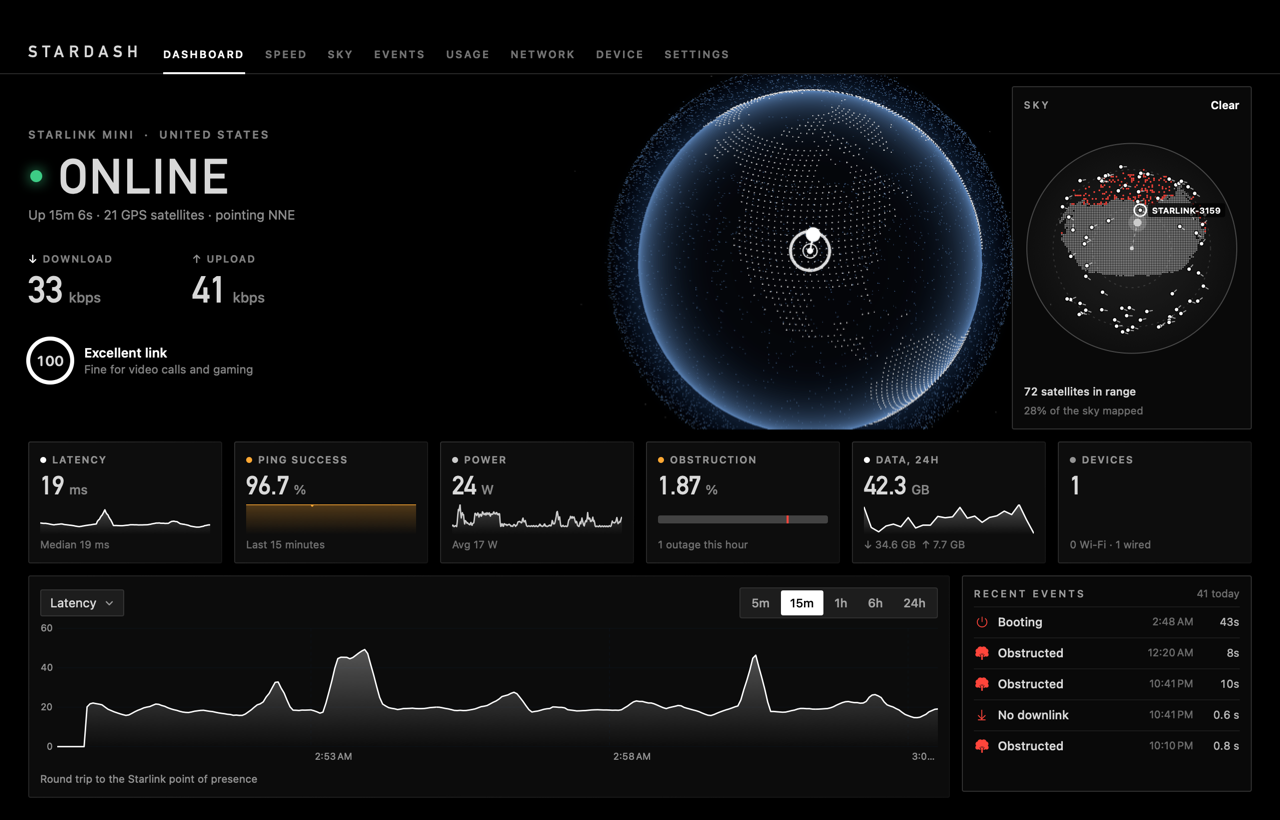
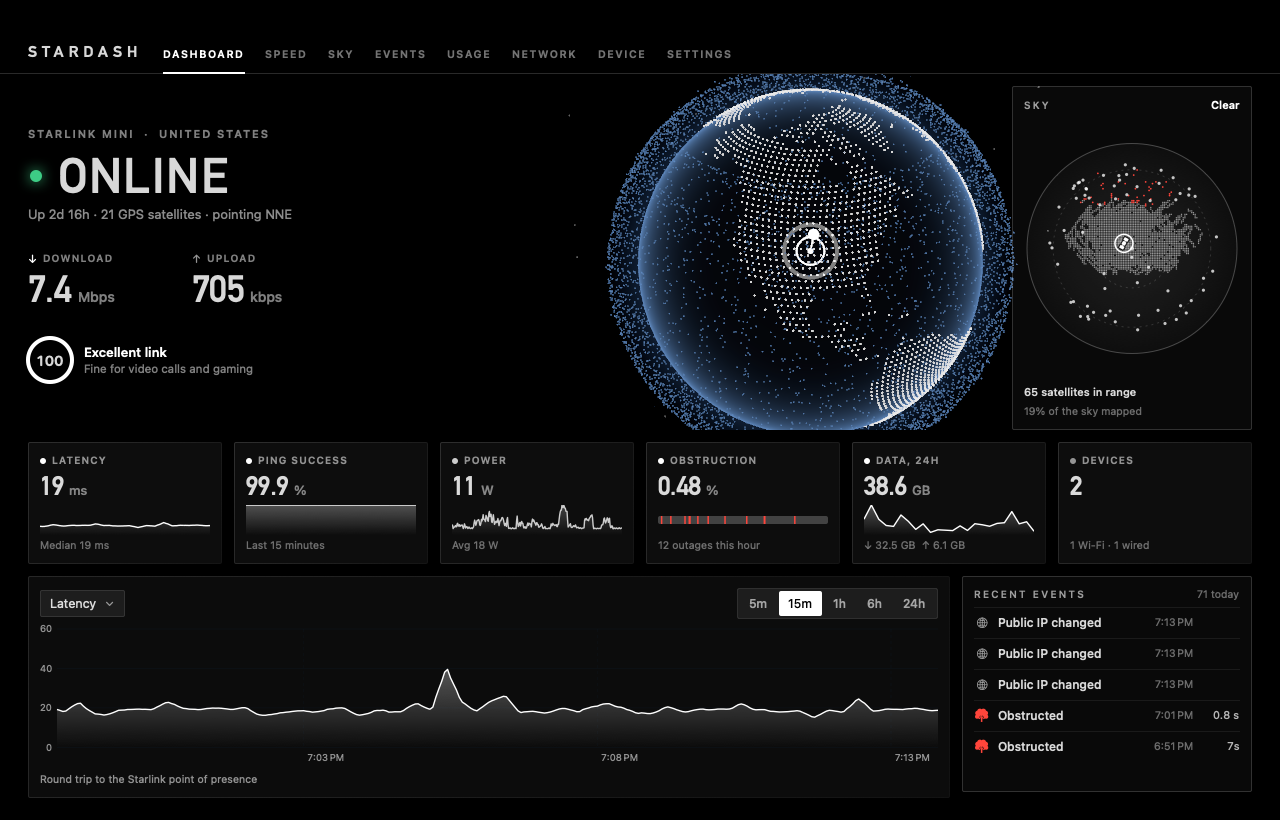
Lead the landing page with the dashboard, and retake the dashboard screenshot

diff --git a/site/public/index.html b/site/public/index.html
@@ -9,7 +9,7 @@
 <link rel="icon" href="/icon.svg" type="image/svg+xml">
 <meta property="og:title" content="StarDash">
 <meta property="og:description" content="Your Starlink dish, in your menu bar. Free and open source for macOS.">
-<meta property="og:image" content="https://stardash.nixify.app/img/sky.jpg">
+<meta property="og:image" content="https://stardash.nixify.app/img/dashboard.jpg">
 <meta property="og:url" content="https://stardash.nixify.app">
 <meta name="twitter:card" content="summary_large_image">
 <style>
@@ -212,10 +212,10 @@
     </div>
     <p class="meta">Free and open source · macOS 14 or later · No account needed</p>
 
-    <div class="shot reveal">
+    <div class="shot">
       <div class="window">
         <div class="chrome"><i></i><i></i><i></i></div>
-        <img src="/img/sky.jpg" width="1280" height="820" alt="The Sky page: a 3D dome of the dish's obstruction map under a night sky, with Starlink satellites overhead and a beam to the one the dish is likely using.">
+        <img src="/img/dashboard.jpg" width="1280" height="820" alt="The StarDash dashboard: live download and upload speed, latency, power and the day's outages.">
       </div>
     </div>
   </div>
@@ -291,7 +291,7 @@
         <h2>A full window when you want to dig in.</h2>
       </div>
       <div class="gallery">
-        <figure class="reveal"><div class="window"><img src="/img/dashboard.jpg" width="1280" height="820" alt="Dashboard" loading="lazy"></div><figcaption>Dashboard: live throughput, latency and the day so far.</figcaption></figure>
+        <figure class="reveal"><div class="window"><img src="/img/sky.jpg" width="1280" height="820" alt="The Sky page: a 3D dome of the obstruction map under a night sky, with satellites overhead" loading="lazy"></div><figcaption>Sky: the obstruction map in 3D, and the satellite your dish is likely using.</figcaption></figure>
         <figure class="reveal"><div class="window"><img src="/img/speed.jpg" width="1280" height="820" alt="Speed test" loading="lazy"></div><figcaption>Speed tests from the Mac and the router, with the route they take.</figcaption></figure>
         <figure class="reveal"><div class="window"><img src="/img/network.jpg" width="1280" height="820" alt="Network devices" loading="lazy"></div><figcaption>Network: every device, its signal and traffic.</figcaption></figure>
         <figure class="reveal"><div class="window"><img src="/img/events.jpg" width="1280" height="820" alt="Outages and events" loading="lazy"></div><figcaption>Events: outages and alerts over time.</figcaption></figure>
